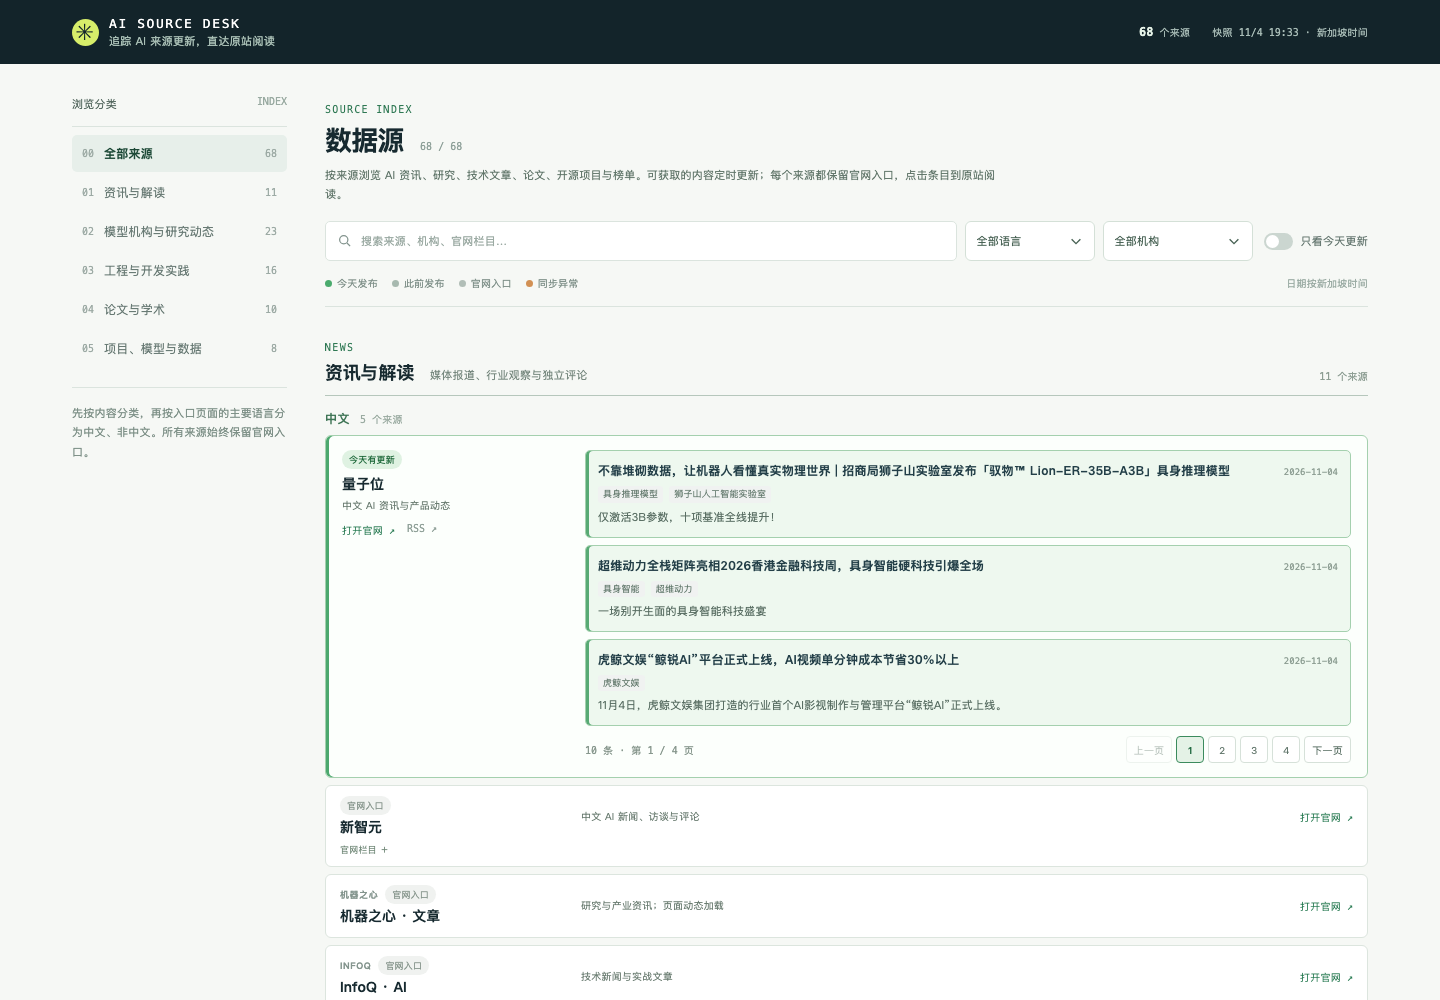
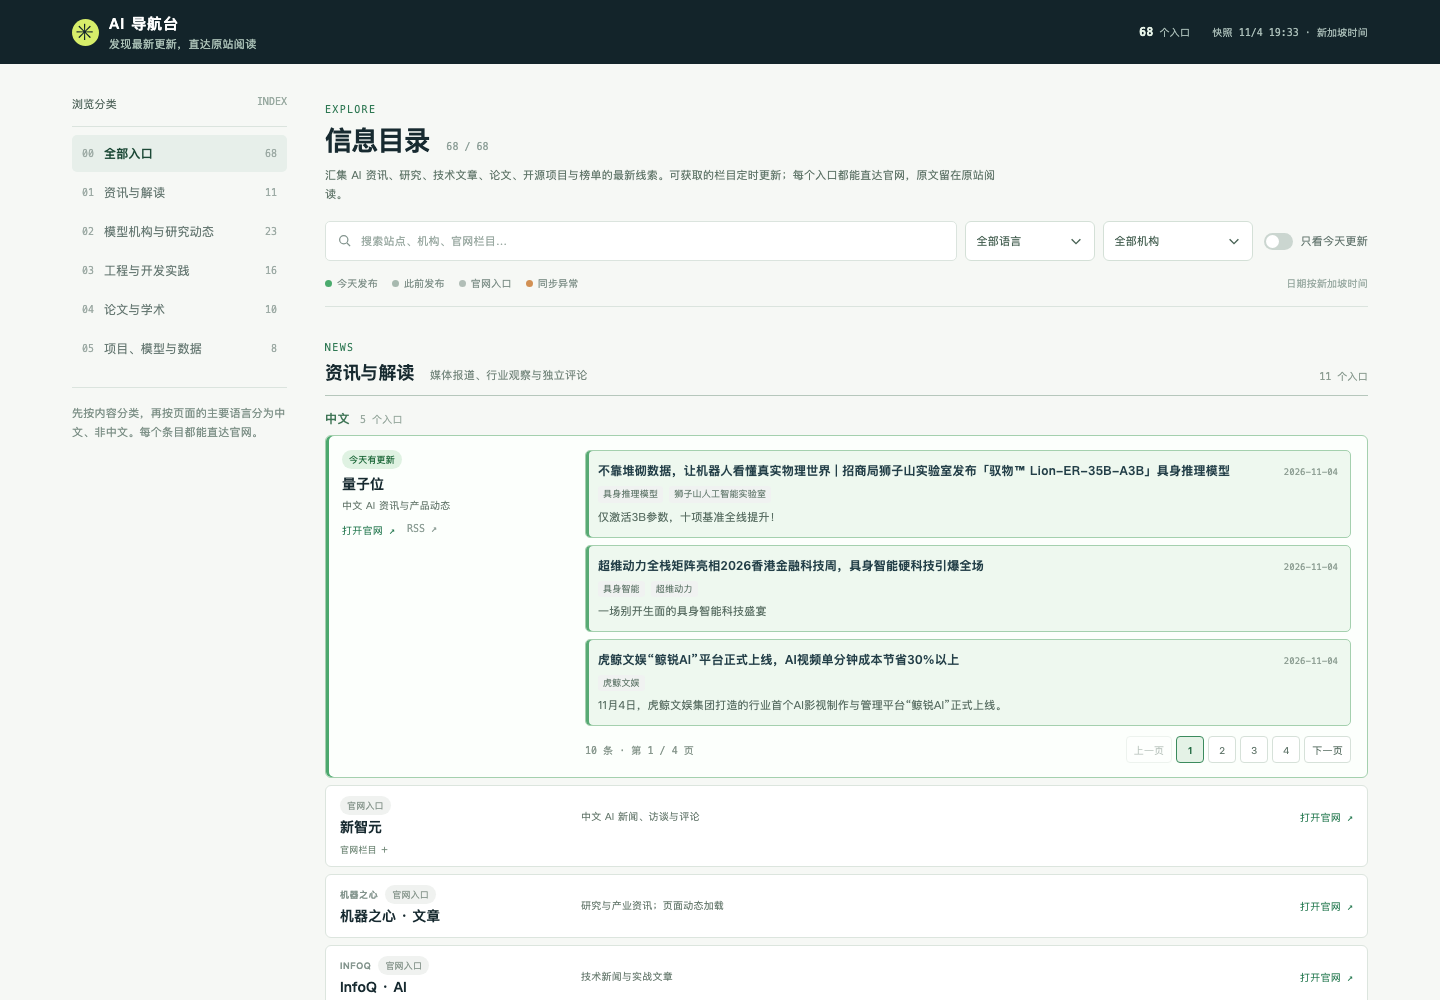
Rename project to AI Navigator

Changed region(s): [[0.2188, 0.093, 0.6562, 0.186], [0.0625, 0.0, 0.1875, 0.062], [0.0625, 0.403, 0.1875, 0.434]]

diff --git a/site/index.html b/site/index.html
@@ -4,17 +4,17 @@
   <meta charset="utf-8">
   <meta name="viewport" content="width=device-width, initial-scale=1">
   <meta name="theme-color" content="#13242a">
-  <meta name="description" content="AI 信息源目录：查看各来源的最新发布，直达官网阅读。">
-  <title>AI Source Desk · AI 信息源</title>
+  <meta name="description" content="AI 导航台：浏览资讯、研究、论文与开源项目的最新更新，直达原站阅读。">
+  <title>AI 导航台 · 资讯、研究与项目导航</title>
   <link rel="icon" href="favicon.svg" type="image/svg+xml">
   <link rel="stylesheet" href="assets/style.css">
 </head>
 <body>
-  <a class="skip" href="#content">跳到来源列表</a>
+  <a class="skip" href="#content">跳到入口目录</a>
   <header class="site-header">
     <div class="header-inner">
-      <a class="home" href="#content" aria-label="AI Source Desk 首页"><span class="brand-mark" aria-hidden="true">✳</span><span class="brand-copy"><strong>AI SOURCE DESK</strong><small>追踪 AI 来源更新，直达原站阅读</small></span></a>
-      <div class="header-status"><span><strong id="sourceCount">—</strong> 个来源</span><span id="syncTime">正在加载…</span></div>
+      <a class="home" href="#content" aria-label="AI 导航台首页"><span class="brand-mark" aria-hidden="true">✳</span><span class="brand-copy"><strong>AI 导航台</strong><small>发现最新更新，直达原站阅读</small></span></a>
+      <div class="header-status"><span><strong id="sourceCount">—</strong> 个入口</span><span id="syncTime">正在加载…</span></div>
     </div>
   </header>
 
@@ -22,13 +22,13 @@
     <aside class="sidebar" aria-label="分类导航">
       <div class="sidebar-title">浏览分类 <span>INDEX</span></div>
       <nav id="groupNav"></nav>
-      <p class="sidebar-note">先按内容分类，再按入口页面的主要语言分为中文、非中文。所有来源始终保留官网入口。</p>
+      <p class="sidebar-note">先按内容分类，再按页面的主要语言分为中文、非中文。每个条目都能直达官网。</p>
     </aside>
     <div class="main-panel">
       <div class="toolbar">
-        <div class="toolbar-title"><span class="section-kicker">SOURCE INDEX</span><h1>数据源 <span id="visibleCount"></span></h1><p class="project-intro">按来源浏览 AI 资讯、研究、技术文章、论文、开源项目与榜单。可获取的内容定时更新；每个来源都保留官网入口，点击条目到原站阅读。</p></div>
+        <div class="toolbar-title"><span class="section-kicker">EXPLORE</span><h1>信息目录 <span id="visibleCount"></span></h1><p class="project-intro">汇集 AI 资讯、研究、技术文章、论文、开源项目与榜单的最新线索。可获取的栏目定时更新；每个入口都能直达官网，原文留在原站阅读。</p></div>
         <div class="controls">
-          <label class="search-wrap"><span class="sr-only">搜索来源</span><svg viewBox="0 0 24 24" aria-hidden="true"><circle cx="10.8" cy="10.8" r="6.6"></circle><path d="m16 16 5 5"></path></svg><input id="search" type="search" placeholder="搜索来源、机构、官网栏目…"></label>
+          <label class="search-wrap"><span class="sr-only">搜索入口</span><svg viewBox="0 0 24 24" aria-hidden="true"><circle cx="10.8" cy="10.8" r="6.6"></circle><path d="m16 16 5 5"></path></svg><input id="search" type="search" placeholder="搜索站点、机构、官网栏目…"></label>
           <div class="language-filter"><button id="languageFilter" class="language-filter-trigger" type="button" aria-expanded="false" aria-controls="languagePanel"><span id="languageFilterLabel">全部语言</span><svg viewBox="0 0 16 16" aria-hidden="true"><path d="m3 6 5 5 5-5"/></svg></button><div id="languagePanel" class="language-panel" role="group" aria-label="筛选语言" hidden><button class="language-option" type="button" data-language="all" aria-pressed="true">全部语言</button><button class="language-option" type="button" data-language="zh" aria-pressed="false">中文</button><button class="language-option" type="button" data-language="non_zh" aria-pressed="false">非中文</button></div></div>
           <div class="org-filter"><button id="orgFilter" class="org-filter-trigger" type="button" aria-expanded="false" aria-controls="orgPanel"><span id="orgFilterLabel">全部机构</span><svg viewBox="0 0 16 16" aria-hidden="true"><path d="m3 6 5 5 5-5"/></svg></button><div id="orgPanel" class="org-panel" hidden><label class="org-search"><span class="sr-only">搜索机构</span><input id="orgSearch" type="search" placeholder="搜索机构…" autocomplete="off"></label><div id="orgOptions" class="org-options" role="group" aria-label="选择机构"></div></div></div>
           <label class="today-switch"><input id="todayOnly" type="checkbox"><span class="switch-track"></span>只看今天更新</label>
@@ -37,10 +37,10 @@
       </div>
       <div class="legend" aria-label="颜色说明"><span><i class="dot fresh"></i> 今天发布</span><span><i class="dot recent"></i> 此前发布</span><span><i class="dot manual"></i> 官网入口</span><span><i class="dot error"></i> 同步异常</span><span class="timezone">日期按新加坡时间</span></div>
       <div class="sync-notice" id="syncNotice" role="status" hidden></div>
-      <div id="sections" aria-live="polite"><div class="loading">正在整理数据源…</div></div>
+      <div id="sections" aria-live="polite"><div class="loading">正在整理目录…</div></div>
     </div>
   </main>
-  <footer><span>AI SOURCE DESK</span><span>来源索引，原文直达。内容与版权属于各发布者。</span></footer>
+  <footer><span>AI 导航台</span><span>信息导航，原文直达。内容与版权属于各发布者。</span></footer>
   <script src="assets/app.js" defer></script>
 </body>
 </html>

diff --git a/site/assets/style.css b/site/assets/style.css
@@ -18,7 +18,7 @@ footer{display:flex;justify-content:space-between;gap:20px;background:#eaf0eb;bo
 .item-facts{display:flex;flex-wrap:wrap;gap:4px 6px;margin-top:6px}.item-fact{display:inline-block;border-radius:3px;padding:2px 5px;font-size:9px;line-height:1.35;overflow-wrap:anywhere}.item-fact.metric{background:#eef3ef;color:#356b4d;font-weight:600}.item-fact.category{background:#f0f2f1;color:#657b6f}
 .toolbar{display:block;margin-bottom:15px}.toolbar-title{max-width:760px}.project-intro{max-width:680px;margin:10px 0 0;color:#61766a;font-size:11px;line-height:1.7}.controls{display:flex;flex-wrap:wrap;justify-content:flex-start;gap:8px;margin-top:18px}.search-wrap{flex:1 1 250px}.search-wrap input{width:100%;min-width:0;height:40px}.search-wrap svg{top:12px}.org-filter{position:relative;flex:0 0 150px;min-width:0}.org-filter-trigger{display:flex;align-items:center;justify-content:space-between;gap:10px;width:100%;height:40px;padding:0 11px;border:1px solid #d4e0d7;border-radius:6px;background:#fff;color:#486254;text-align:left;font-size:11px}.org-filter-trigger:hover,.org-filter-trigger[aria-expanded="true"]{border-color:#8eb89a;background:#fafffa}.org-filter-trigger span{overflow:hidden;text-overflow:ellipsis;white-space:nowrap}.org-filter-trigger svg{flex:none;width:14px;height:14px;fill:none;stroke:currentColor;stroke-width:1.6;transition:transform .15s}.org-filter-trigger[aria-expanded="true"] svg{transform:rotate(180deg)}.org-panel{position:absolute;z-index:20;top:calc(100% + 6px);right:0;width:min(290px,calc(100vw - 40px));padding:8px;border:1px solid #d1ded4;border-radius:7px;background:#fff;box-shadow:0 14px 35px #19372825}.org-panel[hidden]{display:none}.org-search input{display:block;width:100%;height:35px;padding:0 10px;border:1px solid #dbe5dd;border-radius:4px;background:#f8faf8;color:var(--ink);font-size:11px}.org-options{max-height:255px;overflow:auto;margin-top:6px}.org-option{display:flex;align-items:center;justify-content:space-between;gap:12px;width:100%;min-height:34px;padding:7px 9px;border:0;border-radius:4px;background:#fff;color:#526b5b;text-align:left;font-size:11px}.org-option:hover,.org-option.selected{background:#e8f3ea;color:#205c3c}.org-option.selected{font-weight:700}.org-option-count{color:#8da196;font:10px 'DM Mono',monospace}.org-no-match{margin:10px 8px;color:#84958c;font-size:11px}.language-filter button:focus-visible,.org-filter-trigger:focus-visible,.org-option:focus-visible,.org-search input:focus-visible{outline:2px solid #4f9669;outline-offset:2px}.today-switch{min-height:40px;margin-left:3px}.reset-filters{min-height:40px;padding:0 7px;border:0;background:transparent;color:var(--green);font-size:11px;white-space:nowrap}.reset-filters:hover{text-decoration:underline}.reset-filters[hidden]{display:none}
 @media(max-width:600px){.project-intro{font-size:11px}.controls{display:grid;grid-template-columns:minmax(0,1fr) minmax(0,1fr);gap:9px;margin-top:17px}.search-wrap{grid-column:1/-1;width:100%}.language-filter{grid-column:1;width:100%}.org-filter{grid-column:2;width:100%}.org-panel{left:0;right:auto}.today-switch{grid-column:1/-1;justify-self:start;margin-left:0}.reset-filters{grid-column:1/-1;justify-self:end;min-height:24px;padding:0}}
-.brand-copy{display:flex;flex-direction:column;gap:2px;min-width:0}.brand-copy strong{font:500 13px 'DM Mono',monospace;letter-spacing:.12em}.brand-copy small{color:#aac0b6;font:11px 'Noto Sans SC',sans-serif;letter-spacing:.01em;white-space:nowrap}
+.brand-copy{display:flex;flex-direction:column;gap:2px;min-width:0}.brand-copy strong{font:700 15px 'DM Sans','Noto Sans SC',sans-serif;letter-spacing:.04em}.brand-copy small{color:#aac0b6;font:11px 'Noto Sans SC',sans-serif;letter-spacing:.01em;white-space:nowrap}
 .language-filter{position:relative;display:block;flex:0 0 130px;height:auto;padding:0;border:0;background:transparent}.language-filter .language-filter-trigger,.org-filter-trigger{display:flex;align-items:center;justify-content:space-between;gap:10px;width:100%;height:40px;padding:0 11px;border:1px solid #d4e0d7;border-radius:6px;background:#fff;color:#486254;text-align:left;font-size:11px}.language-filter-trigger:hover,.language-filter-trigger[aria-expanded="true"]{border-color:#8eb89a;background:#fafffa}.language-filter-trigger span{overflow:hidden;text-overflow:ellipsis;white-space:nowrap}.language-filter-trigger svg{flex:none;width:14px;height:14px;fill:none;stroke:currentColor;stroke-width:1.6;transition:transform .15s}.language-filter-trigger[aria-expanded="true"] svg{transform:rotate(180deg)}.language-panel{position:absolute;z-index:20;top:calc(100% + 6px);left:0;width:100%;padding:5px;border:1px solid #d1ded4;border-radius:7px;background:#fff;box-shadow:0 14px 35px #19372825}.language-panel[hidden]{display:none}.language-panel .language-option{display:block;width:100%;height:34px;padding:0 9px;border:0;border-radius:4px;background:transparent;color:#65786b;text-align:left;font-size:11px;white-space:nowrap}.language-panel .language-option[aria-pressed="true"]{background:#e3f0e6;color:#225c3d;font-weight:700}.language-panel .language-option:hover{background:#edf5ef;color:#205c3c}.language-filter-trigger:focus-visible,.language-option:focus-visible{outline:2px solid #4f9669;outline-offset:2px}
 @media(max-width:600px){.brand-copy small{font-size:10px}}
 @media(prefers-reduced-motion:reduce){html{scroll-behavior:auto}.switch-track,.switch-track:before,.language-filter-trigger svg{transition:none}}

diff --git a/site/assets/app.js b/site/assets/app.js
@@ -193,7 +193,7 @@ function renderOrgOptions() {
 
 function renderNav() {
   const nav = $('#groupNav'); nav.replaceChildren();
-  [{ id: 'all', name: '全部来源' }, ...state.catalog.groups].forEach((group, index) => {
+  [{ id: 'all', name: '全部入口' }, ...state.catalog.groups].forEach((group, index) => {
     const button = el('button', `nav-item ${state.activeGroup === group.id ? 'active' : ''}`);
     button.type = 'button'; button.setAttribute('aria-pressed', state.activeGroup === group.id);
     button.append(el('span', 'nav-index', String(index).padStart(2, '0')), el('span', 'nav-name', group.name));
@@ -219,7 +219,7 @@ function render() {
   $('#sourceCount').textContent = sources.length;
   const unhealthy = sources.filter((source) => source.mode !== 'link' && (resultFor(source).status !== 'ok' || !recentlySynced(resultFor(source))));
   const notice = $('#syncNotice'); notice.hidden = unhealthy.length === 0;
-  if (unhealthy.length) notice.textContent = `${unhealthy.length} 个自动来源近期未成功同步；旧结果和官网入口仍可访问。`;
+  if (unhealthy.length) notice.textContent = `${unhealthy.length} 个入口近期未成功同步；旧结果和官网链接仍可访问。`;
   $('#syncTime').textContent = state.snapshot?.generatedAt ? `快照 ${new Intl.DateTimeFormat('zh-CN', { timeZone: tz, month: 'numeric', day: 'numeric', hour: '2-digit', minute: '2-digit' }).format(new Date(state.snapshot.generatedAt))} · 新加坡时间` : '等候首次同步';
   const visible = sources.filter(matches);
   $('#resetFilters').hidden = state.activeGroup === 'all' && state.language === 'all' && state.org === 'all' && !state.todayOnly && !state.query;
@@ -231,14 +231,14 @@ function render() {
     const section = el('section', 'group-section'); section.id = `group-${group.id}`;
     const heading = el('div', 'group-heading');
     const label = el('div'); label.append(el('span', 'section-kicker', group.id.toUpperCase()), el('h2', '', group.name));
-    heading.append(label, el('p', '', group.description), el('span', 'group-count', `${entries.length} 个来源`));
+    heading.append(label, el('p', '', group.description), el('span', 'group-count', `${entries.length} 个入口`));
     section.append(heading);
     for (const language of [{ id: 'zh', name: '中文' }, { id: 'non_zh', name: '非中文' }]) {
       const languageEntries = entries.filter((source) => source.language === language.id);
       if (!languageEntries.length) continue;
       const subsection = el('div', 'language-section');
       const subheading = el('div', 'language-heading');
-      subheading.append(el('h3', '', language.name), el('span', '', `${languageEntries.length} 个来源`));
+      subheading.append(el('h3', '', language.name), el('span', '', `${languageEntries.length} 个入口`));
       subsection.append(subheading);
       const list = el('div', 'source-list');
       languageEntries.forEach((source) => list.append(sourceCard(source)));
@@ -246,13 +246,13 @@ function render() {
     }
     container.append(section);
   }
-  if (!visible.length) container.append(el('div', 'empty', '没有匹配的来源。可清除筛选后浏览全部入口。'));
+  if (!visible.length) container.append(el('div', 'empty', '没有匹配的入口。可清除筛选后浏览完整目录。'));
 }
 
 async function init() {
   try {
     const [catalogResponse, snapshotResponse] = await Promise.all([fetch('data/sources.json'), fetch('data/latest.json')]);
-    if (!catalogResponse.ok) throw new Error('来源目录加载失败');
+    if (!catalogResponse.ok) throw new Error('目录加载失败');
     state.catalog = await catalogResponse.json();
     state.snapshot = snapshotResponse.ok ? await snapshotResponse.json() : null;
     state.catalog.sources.forEach((source) => orgCounts.set(source.org, (orgCounts.get(source.org) || 0) + 1));

diff --git a/scripts/update.py b/scripts/update.py
@@ -18,7 +18,7 @@ from urllib.parse import urljoin, urlparse
 ROOT = Path(__file__).resolve().parents[1]
 REGISTRY = ROOT / "data" / "sources.json"
 OUTPUT = ROOT / "site" / "data" / "latest.json"
-USER_AGENT = "AI-Source-Desk/1.0 (+https://github.com/sigangluo/ai-source-desk; public-link-index)"
+USER_AGENT = "AI-Navigator/1.0 (public-link-index)"
 MAX_BYTES = 5_000_000
 MAX_ITEMS = 12
 MAX_PREVIEW = 1_800

diff --git a/README.md b/README.md
@@ -1,6 +1,6 @@
-# AI Source Desk
+# AI 导航台（AI Navigator）
 
-一个面向日常浏览的 AI 信息源看板。**每个来源始终保留在目录中**，可以随时直达官网；能稳定自动获取的来源还显示最近标题、发布日期、发布者导语或摘要、原文链接。条目右上角只显示发布日期；有辨识度的官网文章分类和来源专属数据展示在标题下方。每个来源的条目独立分页，今天发布的条目以颜色区分。榜单显示当前快照。历史内容留在原网站阅读。
+一个面向日常浏览的 AI 信息导航看板。**所有收录入口始终显示**，可以随时直达官网；能稳定自动获取的栏目还显示最近标题、发布日期、发布者导语或摘要、原文链接。条目右上角只显示发布日期；有辨识度的官网文章分类和栏目专属数据展示在标题下方。每个栏目的条目独立分页，今天发布的条目以颜色区分。榜单显示当前快照。历史内容留在原网站阅读。
 
 ![看板预览](docs/images/overview.png)
 

diff --git a/AGENTS.md b/AGENTS.md
@@ -1,4 +1,4 @@
-# AI Source Desk maintenance
+# AI Navigator maintenance
 
 This repository is an index of original AI information sources. The source registry is `data/sources.json`; the site renders every entry in it. Keep that invariant.
 
